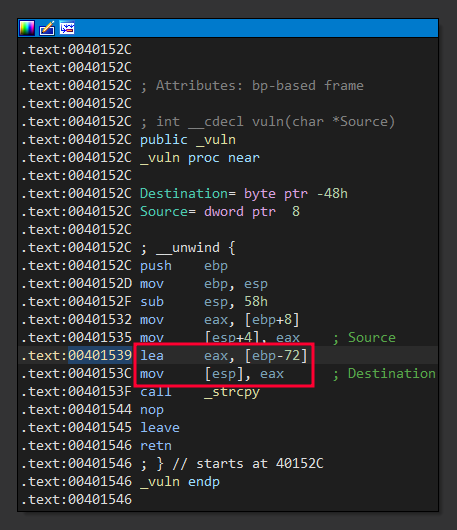
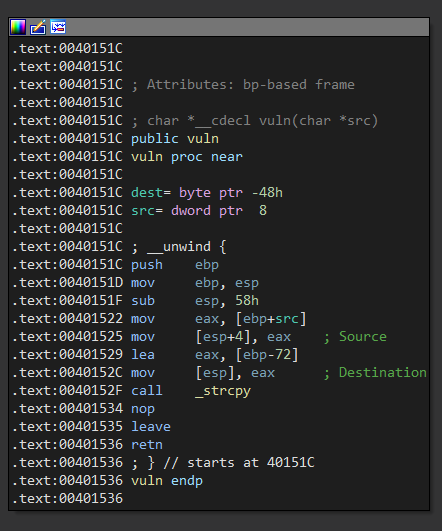
add

diff --git a/exploit-development/windows-user/fundamentals/index.html b/exploit-development/windows-user/fundamentals/index.html
@@ -165,6 +165,8 @@
 <p class="plain-text">El stack trabaja bajo una estructura <code class="language-plaintext highlighter-rouge">LIFO</code> (Last-In-First-Out), esto significa que los últimos datos que han sido empujados usando la instrucción <code class="language-plaintext highlighter-rouge">push</code>, serán también los primeros en eliminarse cuando se ejecute una instrucción <code class="language-plaintext highlighter-rouge">pop</code> para eliminar datos.</p>
 <p class="plain-text">Cuando se crea una pila el puntero a ella apunta a la parte superior, esto significa que al introducir información en la pila este puntero disminuye, lo que quiere decir que la pila crece al revés, desde la dirección mas alta hasta la dirección mas baja.</p>
 
+<a href="/exploit-development/windows-user/fundamentals/9.png" target="_blank"><div><p><img src="/exploit-development/windows-user/fundamentals/9.png"></p></div></a>
+
 </section>
 <section class="post" id="conventions">
 <br><h3 class="post-title">Calling Conventions</h3><br>
@@ -185,26 +187,26 @@
 <a href="/exploit-development/windows-user/fundamentals/4.png" target="_blank"><div><p><img src="/exploit-development/windows-user/fundamentals/4.png"></p></div></a>
 
 <p class="plain-text">Varios de los registros se usan como registros de propósito general para almacenar datos temporales, algunos de los propositos de cada uno son:</p>
-<p class="plain-text">• EAX (Accumulator): Instrucciones aritméticas y lógicas.
-<br>• EBX (Base): Puntero base para direcciones de memoria.
-<br>• ECX (Counter): Puntero usado como contador.
-<br>• EDX (Data): Direccionamiento, multiplicación y división.
-<br>• ESI (Source Index): Puntero a la fuente en operaciones de cadenas.
-<br>• EDI (Destination Index): Puntero al destino en operaciones de cadenas.</p>
+<p class="plain-text">• <code class="language-plaintext highlighter-rouge">EAX</code>: Guarda el valor de retorno de la función.
+<br>• <code class="language-plaintext highlighter-rouge">EBX</code>: Puntero base a la sección data.
+<br>• <code class="language-plaintext highlighter-rouge">ECX</code>: Contador en operaciones de bucles.
+<br>• <code class="language-plaintext highlighter-rouge">EDX</code>: Puntero de entrada/salida.
+<br>• <code class="language-plaintext highlighter-rouge">ESI</code>: Puntero a la fuente en operaciones de cadenas.
+<br>• <code class="language-plaintext highlighter-rouge">EDI</code>: Puntero al destino en operaciones de cadenas.</p>
 
 <p class="plain-text">Otros registros bastante importantes que almacenan punteros son:</p>
 
-<p class="plain-text">• ESP (Stack Pointer): Almacena el puntero a la parte superior del stack.
-<br>• EBP (Base Pointer): Puntero a la parte superior de la pila cuando se llama a la función.
-<br>• EIP (Instruction Pointer): Apunta a la dirección de la siguiente instrucción a ejecutar.</p>
+<p class="plain-text">• <code class="language-plaintext highlighter-rouge">ESP</code>: Almacena el puntero a la parte superior del stack.
+<br>• <code class="language-plaintext highlighter-rouge">EBP</code>: Apunta a la parte superior de la pila cuando se llama a la función.
+<br>• <code class="language-plaintext highlighter-rouge">EIP</code>: Apunta a la dirección de la siguiente instrucción a ejecutar.</p>
 
 </section>
 <section class="post" id="endianness">
 <br><h3 class="post-title">Endianness</h3><br>
 
 <p class="plain-text">Hay diferentes formas de representar los valores en memoria, las mas comunes son:</p>
-<p class="plain-text">• Big Endian: Adoptado por Motorola y otros, consiste en representar los bytes en el orden natural, por lo que el valor hexadecimal <code class="language-plaintext highlighter-rouge">0x01020304</code> se guardaría en memoria con los bytes ordenados como <code class="language-plaintext highlighter-rouge">01 02 03 04</code> por lo que no sufriria cambios.</br>
-<br>• Little Endian: Adoptado por Intel, el mismo valor <code class="language-plaintext highlighter-rouge">0x01020304</code> se guardaría en orden inverso con los bytes <code class="language-plaintext highlighter-rouge">04 03 02 01</code> de manera que se hace más intuitivo el acceso a datos, porque se efectúa fácilmente de forma incremental de menos a más relevante.</p>
+<p class="plain-text">• Big Endian: Adoptado por Motorola y otros, consiste en representar los bytes en el orden natural desde el byte mas significativo o MSB (Most Significant Byte), por lo que el valor hexadecimal <code class="language-plaintext highlighter-rouge">0x01020304</code> se guardaría en memoria con los bytes ordenados como <code class="language-plaintext highlighter-rouge">01 02 03 04</code> por lo que no sufriria cambios.</br>
+<br>• Little Endian: Adoptado por Intel, el mismo valor <code class="language-plaintext highlighter-rouge">0x01020304</code> se guardaría en orden inverso ya que inicia desde el byte menos significativo LSB (Low Significant Byte) con los bytes <code class="language-plaintext highlighter-rouge">04 03 02 01</code> de manera que se hace más intuitivo el acceso a datos, porque se efectúa fácilmente de forma incremental de menos a más relevante.</p>
 
 </section>
 <section class="post" id="example">
@@ -235,10 +237,10 @@
 <code><span class="ve">❯ i686-w64-mingw32-gcc </span><span class="p">code.c -no-pie -o file.exe  </span>
 </code></pre></div></div><br>
 
-<p class="plain-text">Luego de compilarlo podemos pasarlo a un desensamblador como <code class="language-plaintext highlighter-rouge">IDA</code> donde vemos que el puntero donde guardará los datos copiados apunta a <code class="language-plaintext highlighter-rouge">ebp - 72</code></p>
+<p class="plain-text">Luego de compilarlo podemos pasarlo a un desensamblador como <code class="language-plaintext highlighter-rouge">IDA</code>, la función <code class="language-plaintext highlighter-rouge">vuln</code> inicia guardando el estado de los registros <code class="language-plaintext highlighter-rouge">esp</code> y <code class="language-plaintext highlighter-rouge">ebp</code> al entrar a la función con <code class="language-plaintext highlighter-rouge">push ebp; mov ebp, esp;</code>, luego llama a <code class="language-plaintext highlighter-rouge">strcpy</code> usando como <code class="language-plaintext highlighter-rouge">src</code> el argumento y estableciendo el destino en <code class="language-plaintext highlighter-rouge">ebp - 72</code>, luego de la llamada restaura los valores con <code class="language-plaintext highlighter-rouge">leave</code> que equivale a <code class="language-plaintext highlighter-rouge">mov esp, ebp; pop ebp;</code> y ejecuta el <code class="language-plaintext highlighter-rouge">ret</code> para salir de <code class="language-plaintext highlighter-rouge">vuln</code></p>
 <a href="/exploit-development/windows-user/fundamentals/5.png" target="_blank"><div><p><img src="/exploit-development/windows-user/fundamentals/5.png"></p></div></a>
 
-<p class="plain-text">Usaremos como argumento una cadena de <code class="language-plaintext highlighter-rouge">72 A's</code> que se escribiran antes de ebp, <code class="language-plaintext highlighter-rouge">4 B's</code> que sobrescribiran ebp, <code class="language-plaintext highlighter-rouge">4 C's</code> que se escribirán el stack como las <code class="language-plaintext highlighter-rouge">20 D's</code></p>
+<p class="plain-text">Con ello podemos crear un pequeño payload, llenamos con <code class="language-plaintext highlighter-rouge">72 A's♠</code> los bytes de buffer antes de ebp, luego <code class="language-plaintext highlighter-rouge">4 B's</code> que sobrescribirán <code class="language-plaintext highlighter-rouge">ebp</code> y <code class="language-plaintext highlighter-rouge">4 C's</code> que sobresscirirán el return address además de algunas <code class="language-plaintext highlighter-rouge">D's</code> adicionales que se guardarán en el stack</p>
 <div class="language-python highlighter-rouge contenedor"><div class="highlight"><pre class="highlight">
 <code><span class="ve">❯ python3</span><span class="p"> -q
 >>> ("A" * 72) + ("B" * 4) + ("C" * 4) + ("D" * 20)
@@ -249,11 +251,14 @@
 <p class="plain-text">Para analizar el programa necesitamos un debugger, en este caso usaremos <code class="language-plaintext highlighter-rouge">WinDbg</code></p>
 <a href="/exploit-development/windows-user/fundamentals/6.png" target="_blank"><div><p><img src="/exploit-development/windows-user/fundamentals/6.png"></p></div></a>
 
-<p class="plain-text">Si nos detenemos con un breakpoint en el <code class="language-plaintext highlighter-rouge">ret</code> podemos ver que escribimos <code class="language-plaintext highlighter-rouge">A's</code> hasta antes de sobrescribir ebp que ahora vale <code class="language-plaintext highlighter-rouge">0x42424242</code> (valor de <code class="language-plaintext highlighter-rouge">BBBB</code> en hexadecimal) y las <code class="language-plaintext highlighter-rouge">C's</code> y <code class="language-plaintext highlighter-rouge">D's</code> se guardan justo después de esto en el stack</p>
+<p class="plain-text">Llegamos a la llamada a <code class="language-plaintext highlighter-rouge">strcpy</code>, el primer argumento en <code class="language-plaintext highlighter-rouge">esp</code> es el destino donde copiarán los datos y el segundo en <code class="language-plaintext highlighter-rouge">esp + 4</code> es la fuente de donde los copiará</p>
 <a href="/exploit-development/windows-user/fundamentals/7.png" target="_blank"><div><p><img src="/exploit-development/windows-user/fundamentals/7.png"></p></div></a>
 
-<p class="plain-text">Al ejecutar el <code class="language-plaintext highlighter-rouge">ret</code> intentara apuntar a la dirección de memoria guardada en la parte superior del stack pero como esa dirección la hemos sobrescrito con <code class="language-plaintext highlighter-rouge">CCCC</code> intentara apuntar a <code class="language-plaintext highlighter-rouge">0x43434343</code> y al no encontrar esa dirección el programa corrompe</p>
+<p class="plain-text">Una vez llamamos a <code class="language-plaintext highlighter-rouge">strcpy</code> la dirección de destino tiene los mismos datos que la fuente y el registro <code class="language-plaintext highlighter-rouge">eax</code> contiene como valor de retorno el puntero del destino</p>
 <a href="/exploit-development/windows-user/fundamentals/8.png" target="_blank"><div><p><img src="/exploit-development/windows-user/fundamentals/8.png"></p></div></a>
+
+<p class="plain-text">Cuando llegamos al <code class="language-plaintext highlighter-rouge">leave</code> en <code class="language-plaintext highlighter-rouge">ebp</code> tenemos los 2 dwords de <code class="language-plaintext highlighter-rouge">B's</code> Y <code class="language-plaintext highlighter-rouge">C's</code>, cuando se ejecuta <code class="language-plaintext highlighter-rouge">mov esp, ebp</code> ahora el stack apunta a ellos y cuando ejecuta el <code class="language-plaintext highlighter-rouge">pop ebp</code> toma el dword de las <code class="language-plaintext highlighter-rouge">B's</code> y lo guarda en <code class="language-plaintext highlighter-rouge">ebp</code>, entonces cuando llega el <code class="language-plaintext highlighter-rouge">ret</code> en el stack se encuentra el dword de las <code class="language-plaintext highlighter-rouge">C's</code> y cuando lo ejecuta intenta retornar a <code class="language-plaintext highlighter-rouge">0x43434343</code>, el resto de los datos los vemos representados en el stack que son las <code class="language-plaintext highlighter-rouge">20 D's</code></p>
+<a href="/exploit-development/windows-user/fundamentals/10.png" target="_blank"><div><p><img src="/exploit-development/windows-user/fundamentals/10.png"></p></div></a>
 
 <p class="plain-text">Resumiendo, el Buffer Overflow mas conocido generalmente ocurre cuando no se controla la cantidad de datos que se escriben y al sobrescribir la dirección de retorno esta apuntará a un valor que el atacante introduce por lo que puede tomar control</p>
 
